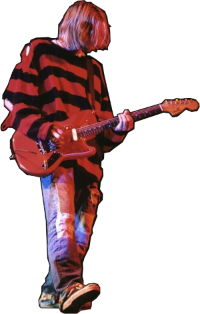
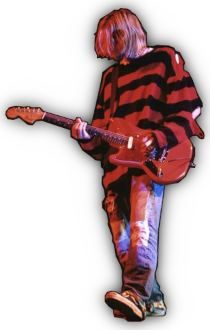
adjusted kurt

diff --git a/src/css/lastfm.css b/src/css/lastfm.css
@@ -56,6 +56,6 @@
   position: absolute;
   height: 200px;
 
-  left: -20px;
-  top: -6px;
+  left: 60px;
+  top: 30px;
 }
